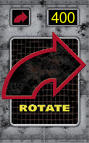
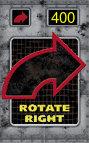
Merged and added RIGHT text on 400.png Prompt system added

Changed region(s): [[0.2697, 0.7832, 0.7191, 0.8671]]

diff --git a/robo_rally/static/js/updatelobby.js b/robo_rally/static/js/updatelobby.js
@@ -159,6 +159,11 @@ var startGame = function (text, player) {
         $("#powerdown").click(function() {
             send("powerdown", "");
         })
+
+        $(".prompt_button").on("click", function(){
+            send("prompt", $(this).text());
+            closeOverlay();
+        });
     });
 };
 
@@ -188,6 +193,25 @@ var deal = function (text, player) {
         $(".hand").append('<img src="/static/images/cards/' + priority + '.png" class="program_card">');
     }
 }
+
+var prompt = function (text, player) {
+    text = text.split(",");
+    message = text[0];
+
+    overlay = $("#overlay");
+    box = $("div.prompt");
+
+    box.text(message);
+    for (var i = 1; i < text.length; i++) {
+        box.append('<button class="prompt_button">' + text[i] + '</button>');
+    }
+    overlay.css("visibility", "visible");
+    overlay.css("height", $(window).height() + "px");
+};
+
+var closeOverlay = function() {
+    $("#overlay").css("visibility", "hidden")
+};
 
 var newobjective = function (text, player) {
     $(".nextflag").html(text);
@@ -226,6 +250,7 @@ var functions = {
     "move": move,
     "health": health,
     "dealhand": deal,
+    "prompt":prompt,
     "newobjective": newobjective,
     "alert": myAlert,
     "virtual": virtualCaller,

diff --git a/robo_rally/static/css/style.css b/robo_rally/static/css/style.css
@@ -11,6 +11,8 @@ nav ul li {
 }
 
 body {
+    height: 100%;
+    margin: 0;
     background-color: #646464;
     padding: 0;
     position: relative;
@@ -39,7 +41,7 @@ input {
 ul.errorlist {
     color: #FA3826;
     padding: 0;
-    margin: 10;
+    margin: 10px;
     list-style-type: none;
     text-shadow: #000000 0px 1px 1px;
 }
@@ -47,7 +49,7 @@ ul.errorlist {
 ul.messages {
     color: #26C234;
     padding: 0;
-    margin: 10;
+    margin: 10px;
     list-style-type: none;
     text-shadow: #000000 0px 1px 1px;
 }
@@ -58,6 +60,36 @@ form {
     background-color: #2480FA;
     width: 600px;
     box-shadow: 0px 2px 15px #000;
+}
+
+#wrapper {
+    height: 100%;
+}
+
+#overlay {
+    visibility: hidden;
+    position: fixed;
+    top: 0px;
+    left: 0px;
+    width: 100%;
+    text-align: center;
+    z-index: 1000;
+    background: url('../images/trans-background.png') repeat;
+}
+
+div.prompt {
+    width: 300px;
+    margin: 100px auto;
+    background-color: #fff;
+    border: 2px solid #000;
+    padding: 15px;
+    text-align: center;
+}
+
+button.prompt_button {
+    margin: 10px auto;
+    display: block;
+    width: 250px;
 }
 
 img.button:hover {

diff --git a/robo_rally/templates/game/gameview.html b/robo_rally/templates/game/gameview.html
@@ -36,13 +36,14 @@
             {% endif %}
         {% endfor %}
     </div>
-    <div class="spacer"></div>
-    <div class="program_cards">
-        {% for card in player.program_cards %}
-            <img src="/static/images/cards/{{ card.priority }}.png"
-                 class="program_card{% if card.locked %} locked{% endif %}{% if player.power_down == 0 %} invisible{% endif %}"/>
-        {% endfor %}
-    </div>
+</div>
+<div class="spacer"></div>
+<div class="program_cards">
+    {% for card in player.program_cards %}
+        <img src="/static/images/cards/{{ card.priority }}.png"
+             class="program_card{% if card.locked %} locked{% endif %}{% if player.power_down == 0 %} invisible{% endif %}"/>
+    {% endfor %}
+</div>
 </div>
 <div class="cards">
     <div class="hand">
@@ -56,4 +57,7 @@
             <div class="option">{{ option }}</div>
         {% endfor %}
     </div>
+</div>
+<div id="overlay">
+    <div class="prompt"></div>
 </div>

diff --git a/robo_rally/static/js/board.js b/robo_rally/static/js/board.js
@@ -73,6 +73,7 @@ function loadBoard(obj, url) {
                 parseInt(text[2]), parseInt(text[3]), parseInt(text[4]));
         }
     });
+    prompt("message,option1,option2");
 };
 
 function drawBoard(display, board, spawn, flags) {
@@ -169,7 +170,7 @@ function animate (queue_pos, img, new_left, new_top, rot) {
             }});
         }});
     }
-}
+};
 
 function drawSpecial(display, squareSize, type, objid, x, y, rot) {
     last = true;

diff --git a/robo_rally/settings.py b/robo_rally/settings.py
@@ -212,6 +212,8 @@ VALID_ACTIONS = {
     'health': SELF,
     'swapcards': NONE,
     'playerready':NONE,
+    'prompt': SELF,
+    'playerready':NONE,
     'newobjective': SELF,
     'powerdown': NONE,
     'alert': ALL,
